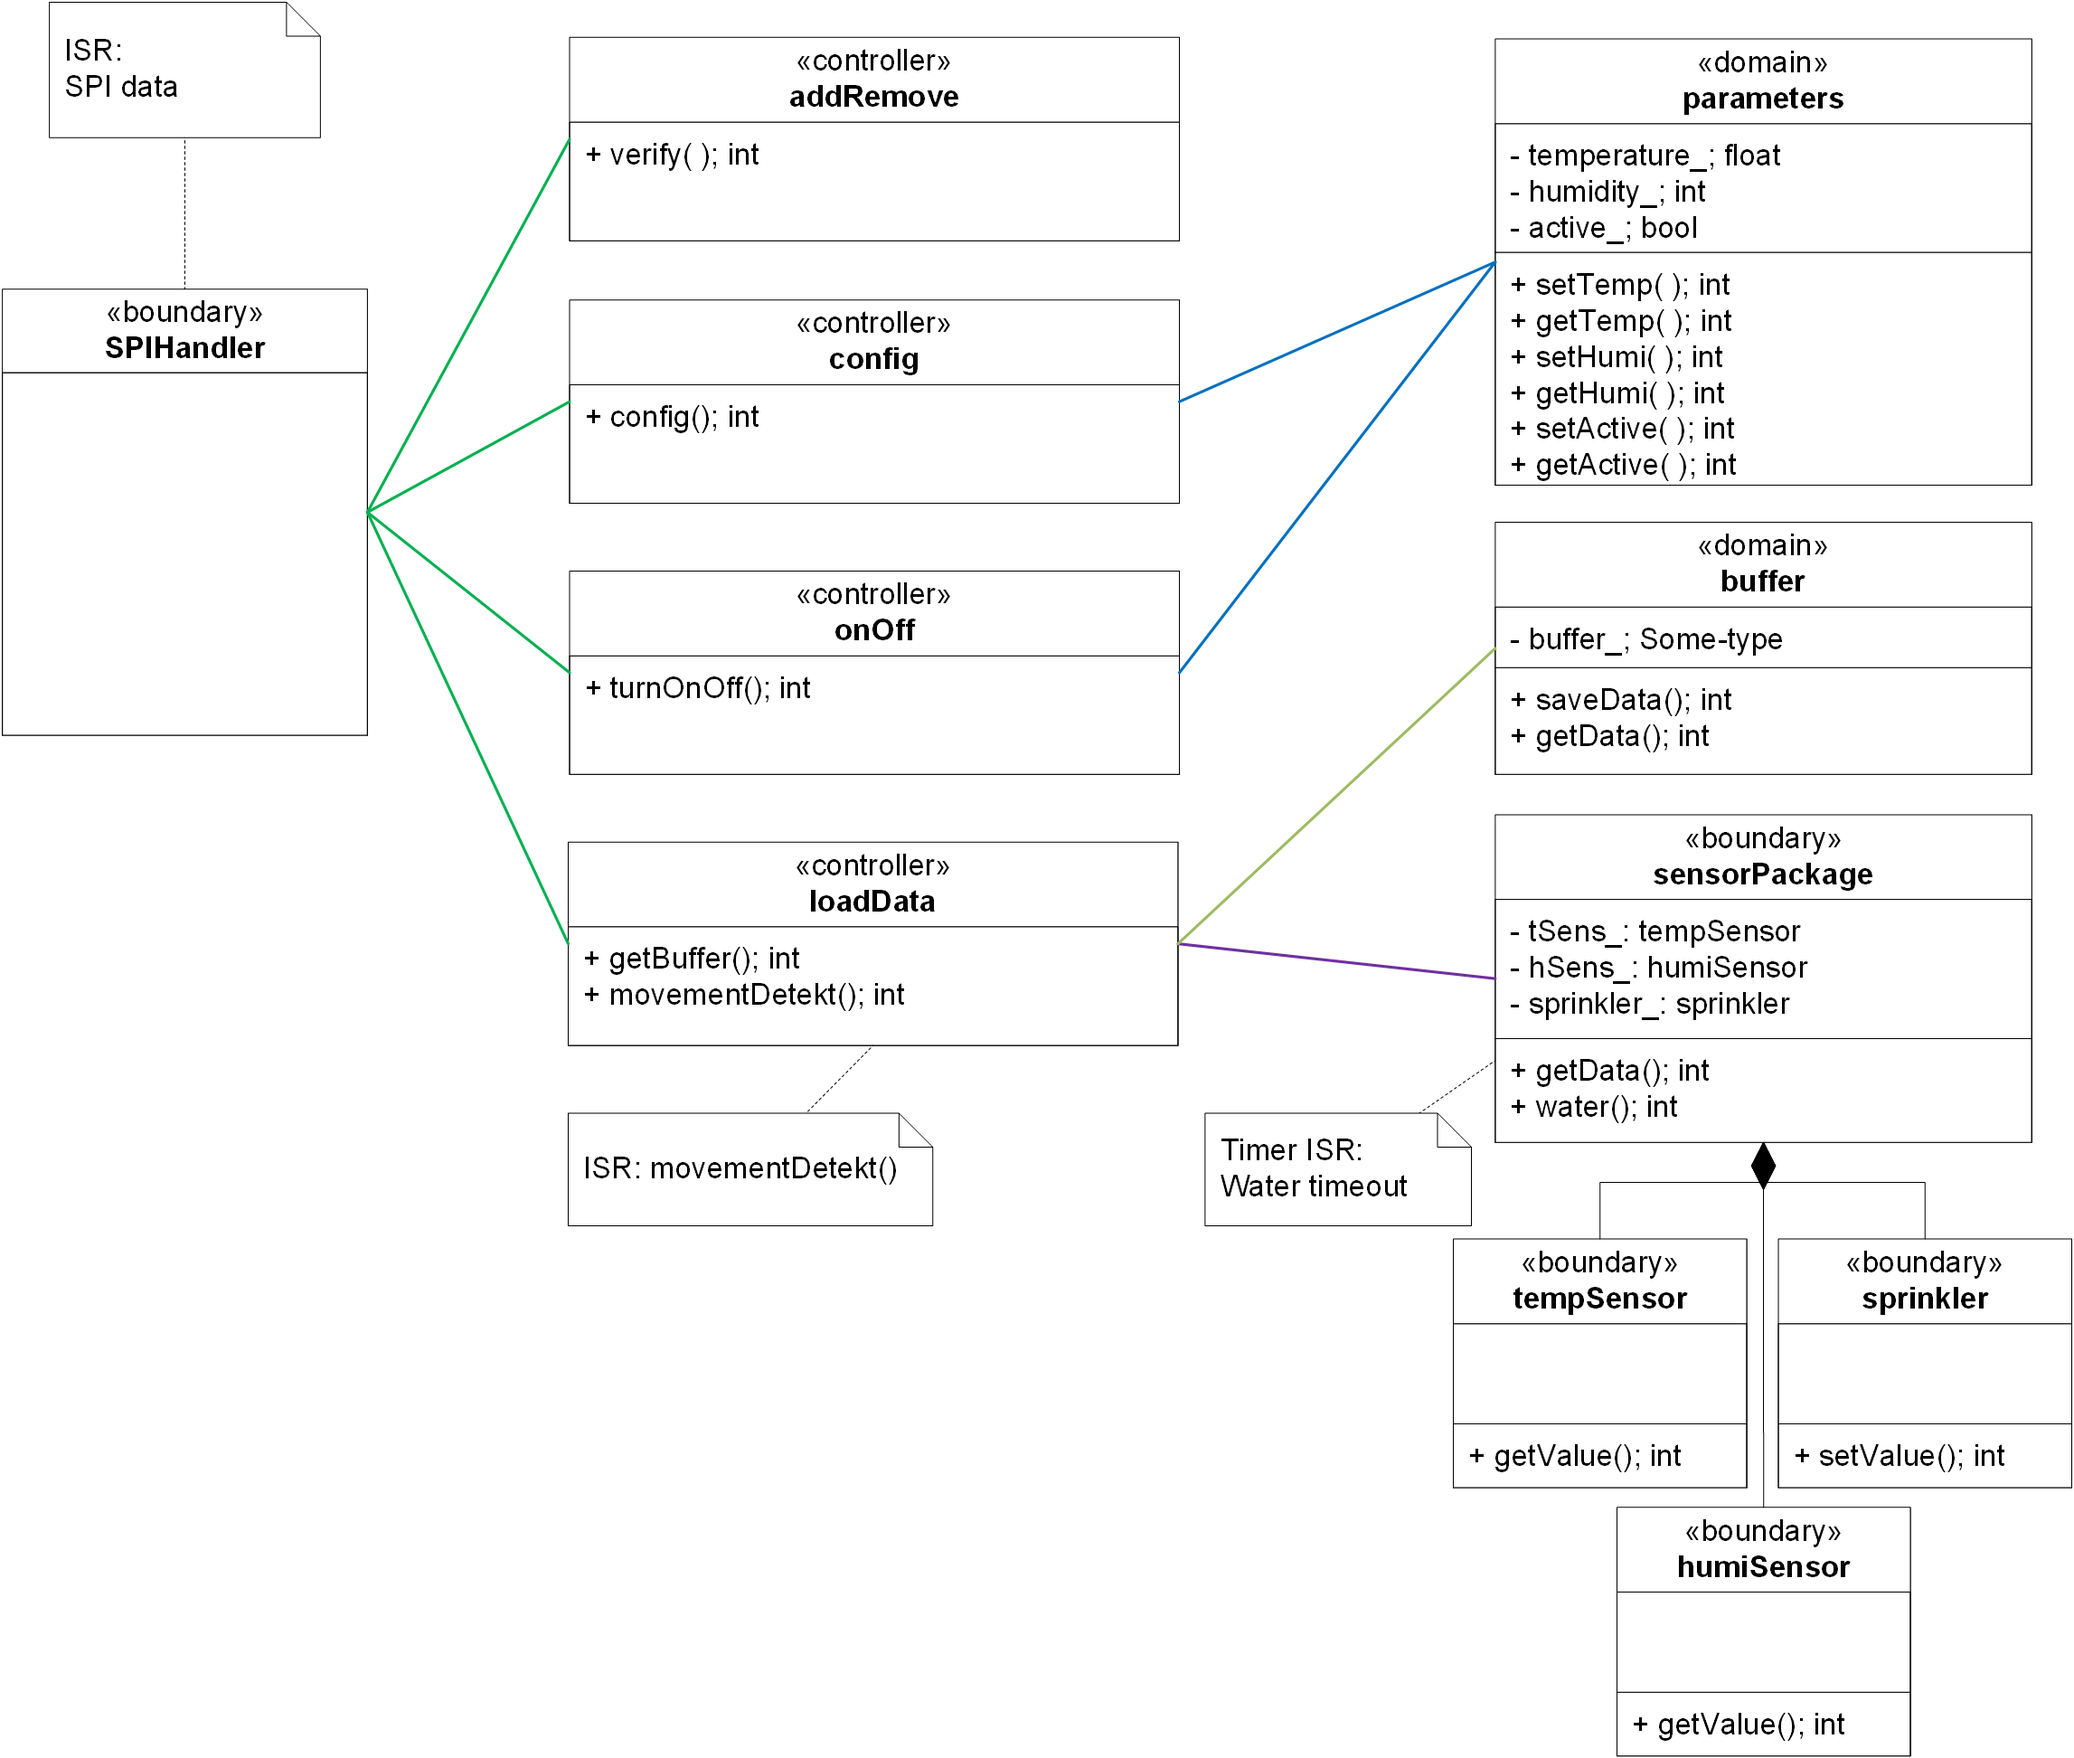
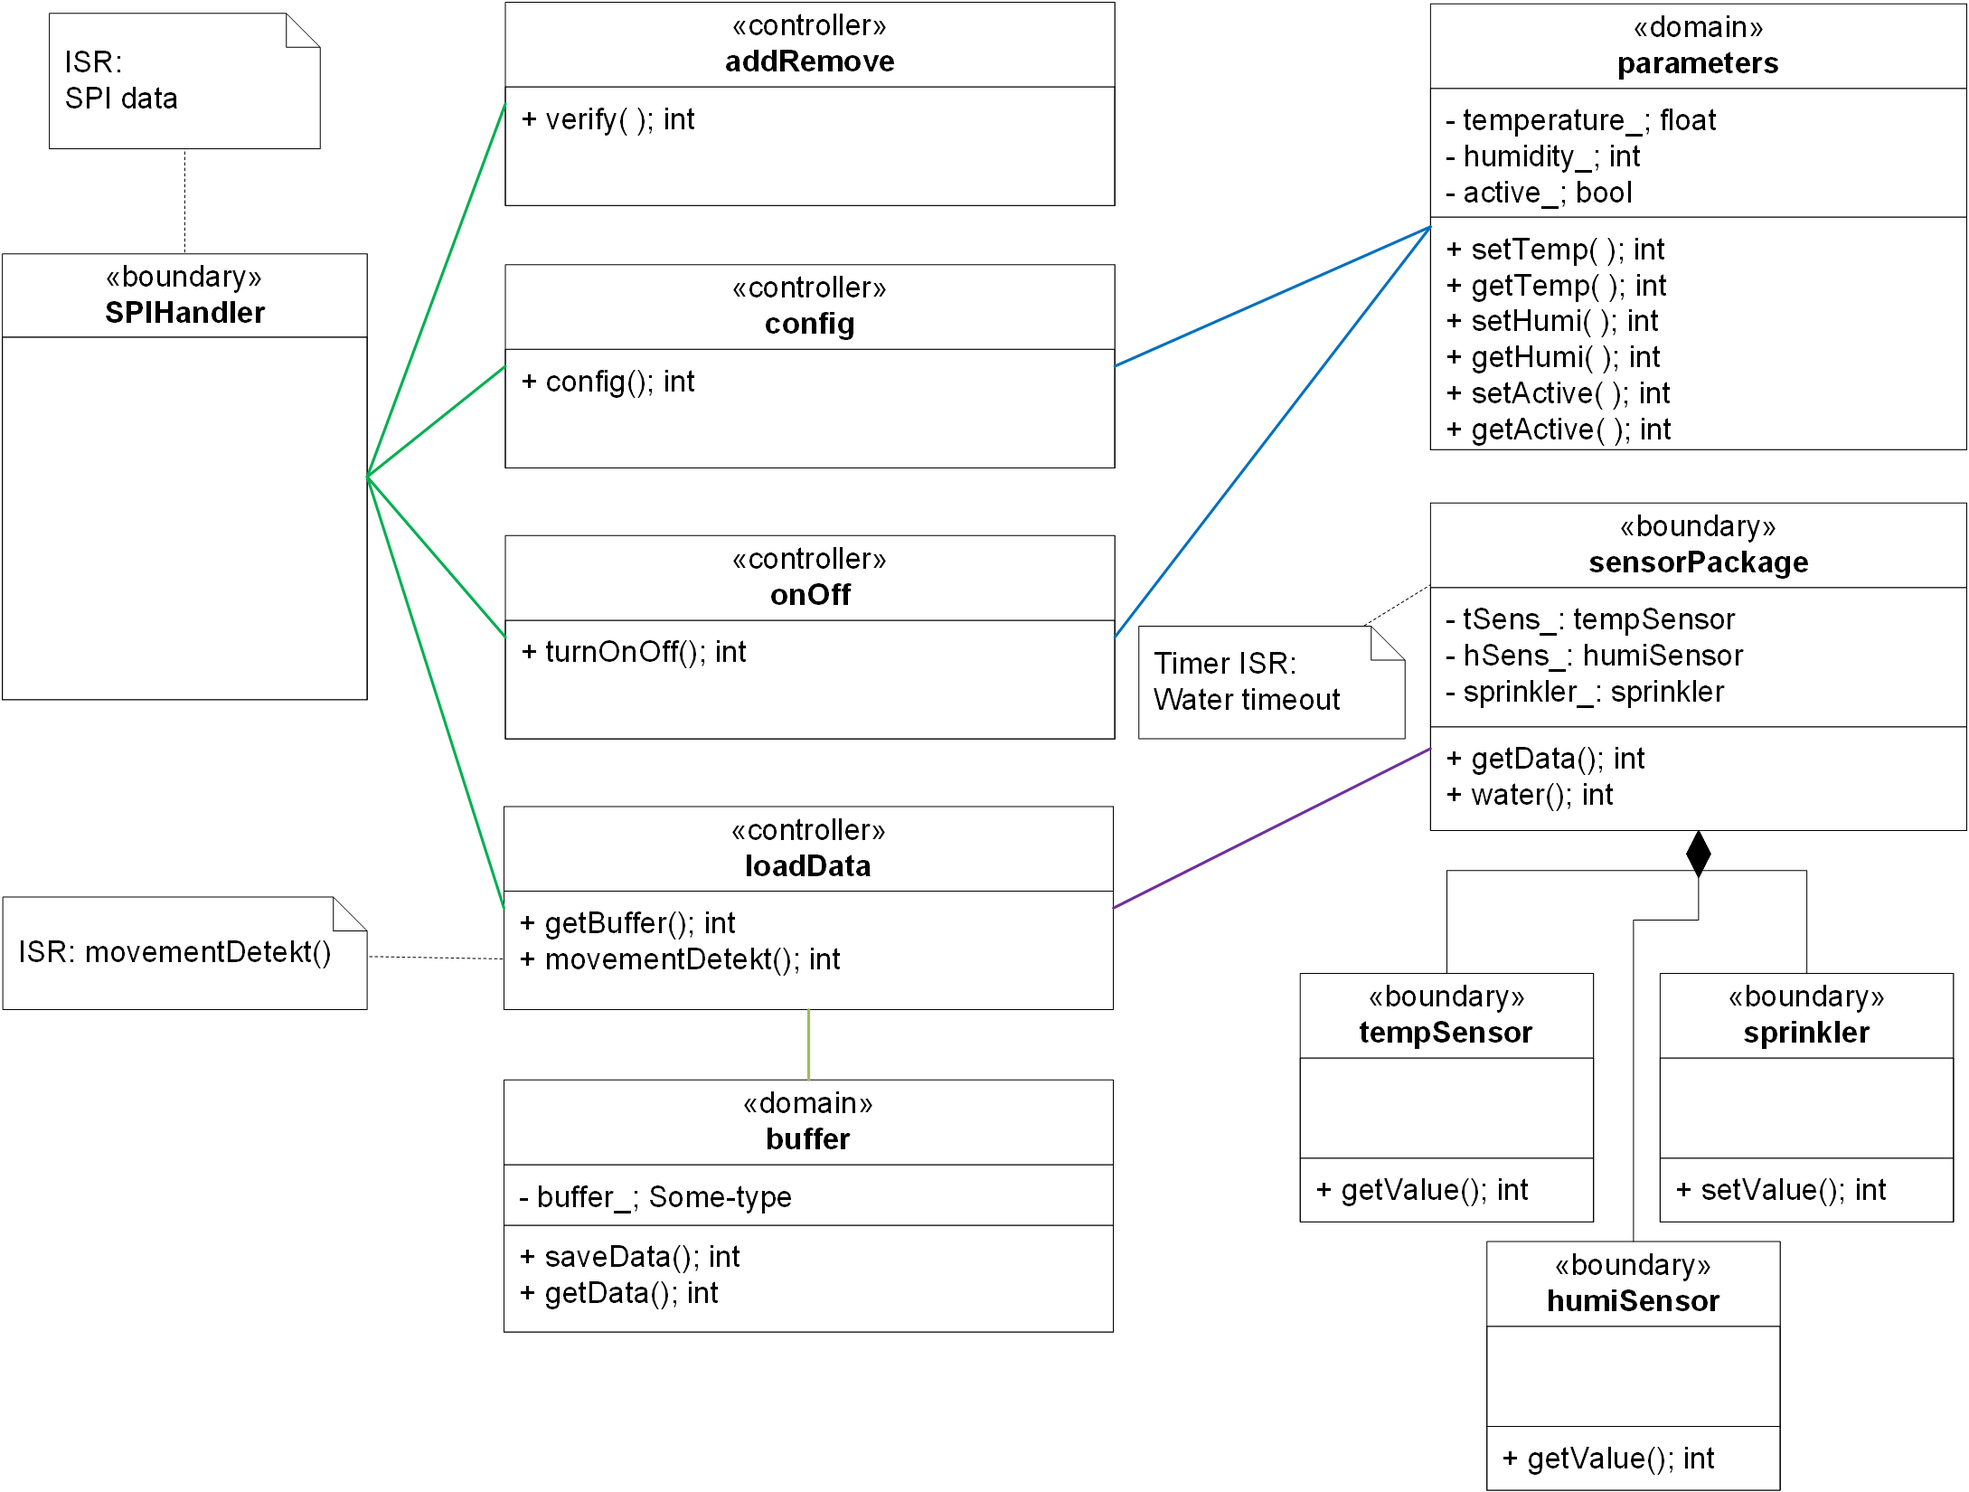
SW Design PSoC
Sekvensdiagrammer og klassediagram tilføjet dokumentationen.

diff --git a/Projektdokumentation/filer/design/sw_applikationsmodel.tex b/Projektdokumentation/filer/design/sw_applikationsmodel.tex
@@ -43,14 +43,46 @@ Applikationsmodeller for Master.
 
 \clearpage
 \begin{figure}[htbp] \centering
-{\includegraphics[scale=1]{filer/design/sw_class_devkit}}
-\caption{klassediagram devkit8000}
+{\includegraphics[width=\textwidth]{filer/design/sw_class_devkit}}
+\caption{Klassediagram for Master (Devkit8000)}
 \label{fig:klassediagram devkit8000}
 \end{figure} 
 
-Efter udarbejdelsen af sekvensdiagrammer samles alle metode kald imellem klasserne til et klassediagram som ses ovenfor på \ref{fig:klassediagram devkit8000}. Efter dette klassediagram udarbejdes en klassebeskrivelse hvor der tænkes over hvilke attributer de forskellige metoder skal have for at kunne udføre deres ansvar. Det bliver så fuldt op med et endeligt statisk klassediagram som inkludere alle attributer og medlems data.
-
+Efter udarbejdelsen af sekvensdiagrammer samles alle metode kald imellem klasserne til et klassediagram som ses ovenfor på figur \ref{fig:klassediagram devkit8000}. Efter dette klassediagram udarbejdes en klassebeskrivelse hvor der tænkes over hvilke attributter de forskellige metoder skal have for at kunne udføre deres ansvar. Det bliver så fulgt op med et endeligt statisk klassediagram som inkluderer alle attributter og metoder.
 
 \clearpage
 \subsection{Enhed}
 Applikationsmodeller for Enhed.
+
+\begin{figure}[htbp] \centering
+{\includegraphics[scale=1]{filer/design/a_psoc_uc1}}
+\caption{Sekvensdiagram UC1}
+\label{fig:psoc_sd_uc1}
+\end{figure} 
+
+\begin{figure}[htbp] \centering
+{\includegraphics[scale=1]{filer/design/a_psoc_uc2}}
+\caption{Sekvensdiagram UC2}
+\label{fig:psoc_sd_uc2}
+\end{figure} 
+
+\begin{figure}[htbp] \centering
+{\includegraphics[scale=1]{filer/design/a_psoc_uc3}}
+\caption{Sekvensdiagram UC3}
+\label{fig:psoc_sd_uc3}
+\end{figure} 
+
+\begin{figure}[htbp] \centering
+{\includegraphics[scale=0.8]{filer/design/a_psoc_uc4}}
+\caption{Sekvensdiagram UC4}
+\label{fig:psoc_sd_uc4}
+\end{figure} 
+
+\clearpage
+Ovenstående sekvensdiagrammer ender også ud i et statisk klassediagram. Det er vist på figur \ref{fig:psoc_klassediagram}.
+
+\begin{figure}[htbp] \centering
+{\includegraphics[width=\textwidth]{filer/design/sw_class_psoc}}
+\caption{Klassediagram for Enhed (PSoC)}
+\label{fig:psoc_klassediagram}
+\end{figure} 

diff --git a/Projektdokumentation/filer/design/sw_dataprotokol.tex b/Projektdokumentation/filer/design/sw_dataprotokol.tex
@@ -61,16 +61,16 @@ Hvis der modtages et ''\verb+B+'' betyder det at der er registreret bevægelse, 
 	\label{table:SWDataprotokol-error}
 \end{table}
 
-Et eksempel på strukturen af en datahentning er vist i tabel \ref{table:SWDataprotokol-eksempel}. Her kan man se at der siden sidste hentning har været bevægelse på hullet, der er hentet sensordata med værdierne 14.5 gader og 20\% fugtighed. Der har også været en fejl 13.
+Et eksempel på strukturen af en datahentning er vist i tabel \ref{table:SWDataprotokol-eksempel}. Her kan man se at der siden sidste hentning har været bevægelse på hullet, \verb+B+. Der er hentet sensordata med værdierne 14.5 grader og 20\% fugtighed, \verb+D014.5020S+ og der har også været en fejl 13, \verb+E013+.
 
 \begin{table}[h]
 	\caption{Dataformatering ifm. log-information}
 	\centering
 	\begin{tabular}{|c|c|c|c|c|c|c|}
 		\hline
-		\verb+vector<string>[0]+ & \verb+[1]+ & \verb+[2]+ & \verb+[3]+ & \verb+[4]+ & \verb+[5]+ & \verb+[6]+ \\
+		\verb+vector<string>[0]+ & \verb+[1]+ & \verb+[2]+ \\
 		\hline 
-		''\verb+B+'' & ''\verb+D+'' & ''\verb+014.5+'' & ''\verb+020+'' & ''\verb+Slukket+'' & ''\verb+E+'' & ''\verb+013+'' \\ 
+		''\verb+B+'' & ''\verb+D014.5020S+'' & ''\verb+E013+'' \\ 
 		\hline 
 	\end{tabular} 
 	\label{table:SWDataprotokol-eksempel}

diff --git a/Projektdokumentation/filer/SWdesign.tex b/Projektdokumentation/filer/SWdesign.tex
@@ -15,3 +15,6 @@ Her følger klassebeskrivelser for de udledte klasser fra applikationsmodellerne
 \input{filer/design/sw_devControllers}
 
 \input{filer/design/sw_domain}
+
+\subsection{Enhed}
+%\input{filer/design/sw_psoc_controllers}
